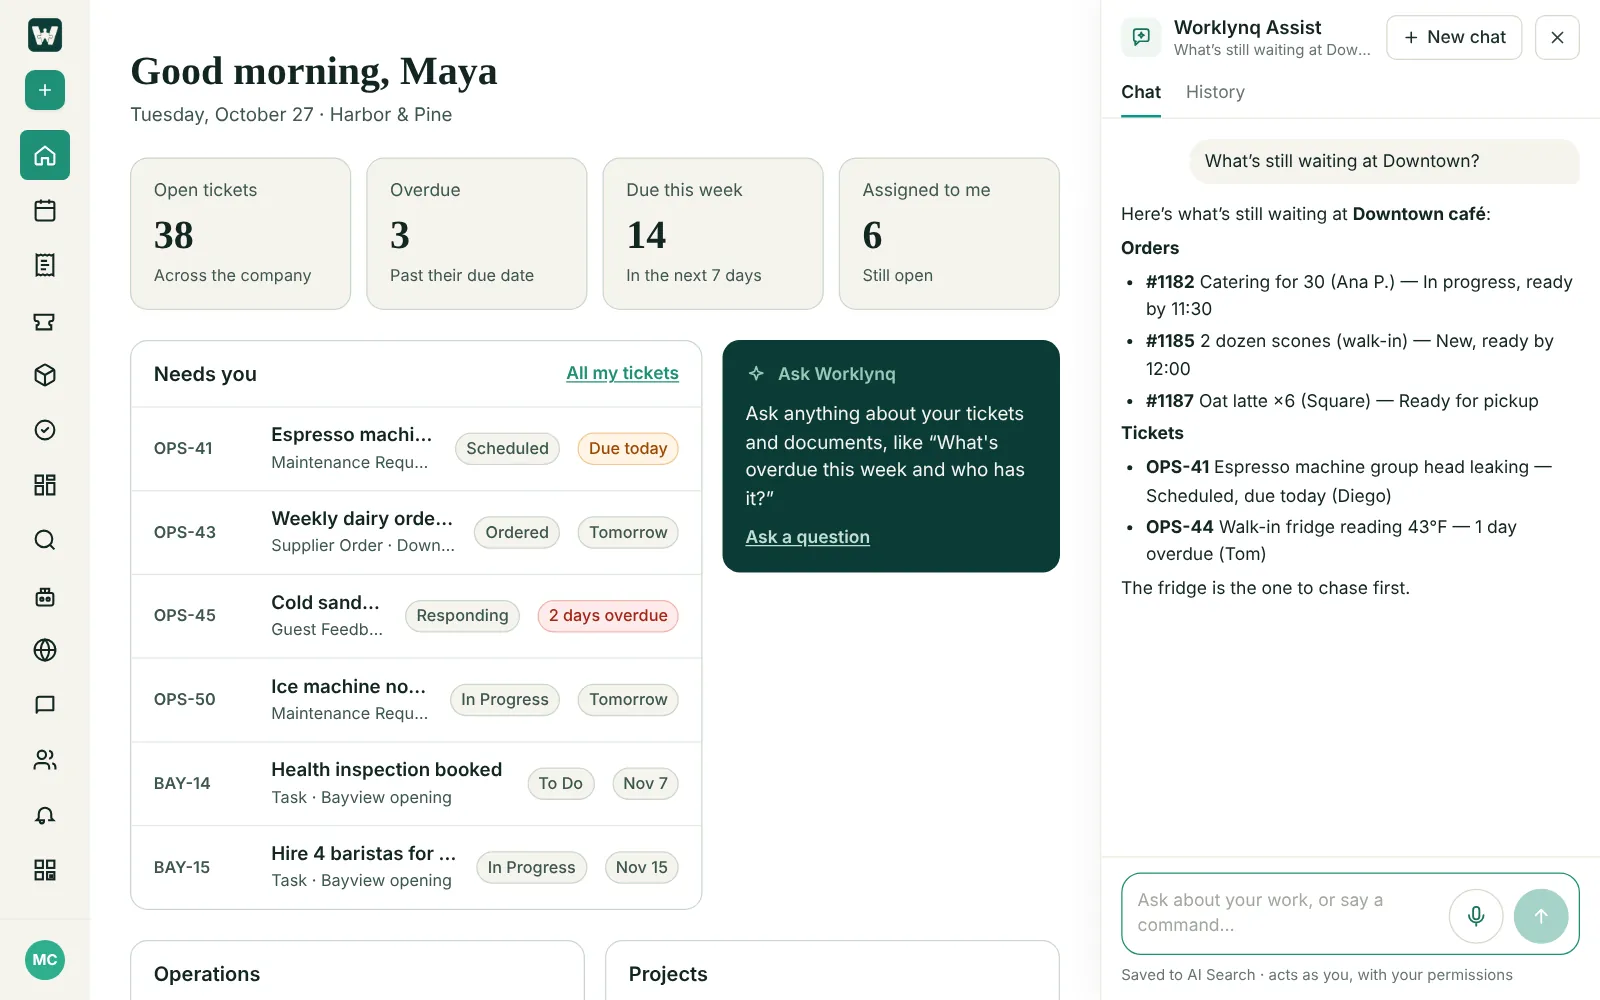
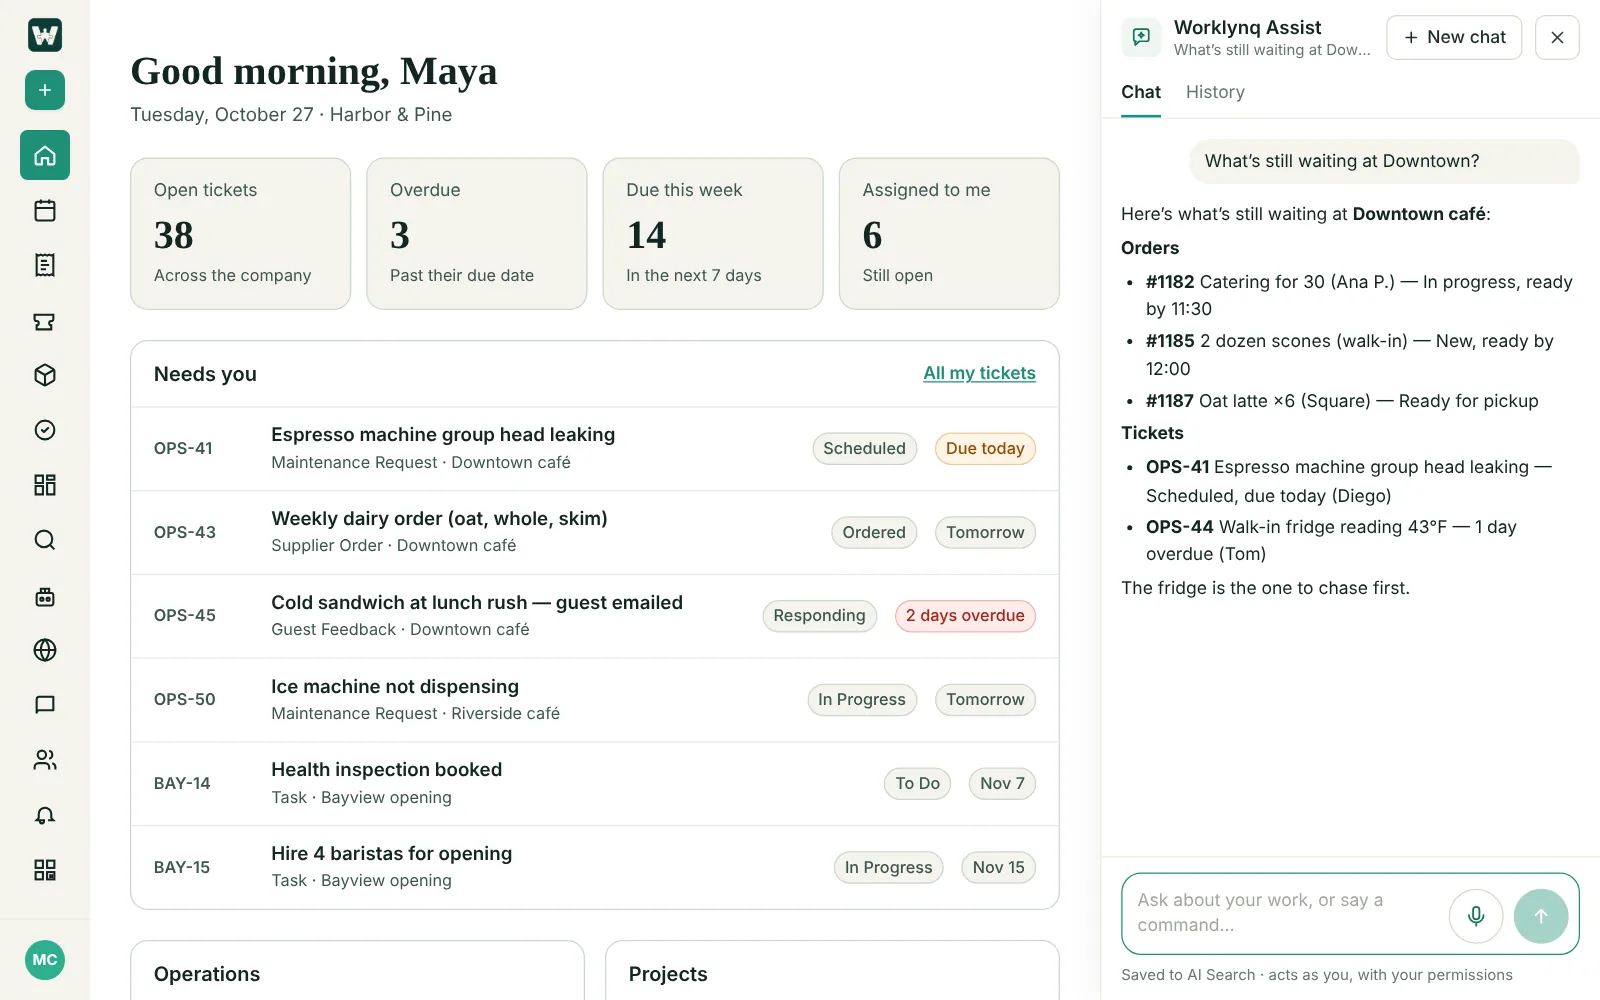
AI credits: publish 1,000 credits per person; Home without Ask Worklynq (#111)
Re-takes AI Usage, AI Monitoring, Assist and Home screenshots to match.

Claude-Session: https://claude.ai/code/session_01LrkZDcZU3B667ZymrL3Co3

diff --git a/docs/faq/index.html b/docs/faq/index.html
@@ -58,7 +58,7 @@
         <details class="faq" id="tv"><summary>Can I put Worklynq on a TV in my store?</summary><div class="faq-a"><p>Yes. Open Order Tracking or Operations, click <strong>Show on TV</strong>, and connect the TV with a code — most TV browsers, a Fire TV stick, or a tablet work. The TV can show open orders, today’s tasks, and who’s on duty. See <a href="/docs/tv-screens/">TV screens</a>.</p></div></details>
         <details class="faq" id="own-software"><summary>Can Worklynq show data from our own software?</summary><div class="faq-a"><p>Yes. Your developers add a small, read-only data feed to your app using our <a href="/docs/integrations/custom-apps/feed-spec/">one-page spec</a>, and your System Admin connects it as a <a href="/docs/integrations/custom-apps/">custom app</a>. Its data then works in dashboards and reports like Square or QuickBooks.</p></div></details>
         <details class="faq" id="own-ai-account"><summary>Do I need my own Claude or Cursor account?</summary><div class="faq-a"><p>Only if you want AI coding agents to work on tickets. You connect your own API key, and that provider bills your account for what the agents use. You can set limits on how long and, for Claude, how much each session may run.</p></div></details>
-        <details class="faq" id="ai-credits"><summary>What are Worklynq AI credits?</summary><div class="faq-a"><p>Worklynq’s built-in AI — Assist, AI Search, agents, and AI in dashboards — runs on AI credits. Each person has a monthly allowance; Assist warns at 80%, and AI features pause at 100% until the next month or until more are added. Using your own Claude or OpenAI key costs no credits. See your usage under <strong>AI Usage</strong> in your profile menu, and read <a href="/docs/ai-credits/">Worklynq AI credits</a>.</p></div></details>
+        <details class="faq" id="ai-credits"><summary>What are Worklynq AI credits?</summary><div class="faq-a"><p>Worklynq’s built-in AI — Assist, AI Search, agents, and AI in dashboards — runs on AI credits. Every person gets 1,000 credits a month; Assist warns at 80%, and AI features pause at 100% until the next month or until more are added. Using your own Claude or OpenAI key costs no credits. See your usage under <strong>AI Usage</strong> in your profile menu, and read <a href="/docs/ai-credits/">Worklynq AI credits</a>.</p></div></details>
         <details class="faq" id="which-ai"><summary>Which AI does Worklynq use?</summary><div class="faq-a"><p>Worklynq’s built-in AI uses models hosted on Amazon Bedrock. Your company can also set up its own Claude or OpenAI key and choose those models for things like building and explaining dashboards and summarizing reports. AI coding agents use Claude (Anthropic) or Cursor (Anysphere) through your own account with them.</p></div></details>
         <details class="faq" id="ai-training"><summary>Is my data used to train AI models?</summary><div class="faq-a"><p>No. We don’t use your content to train AI models, and we don’t use it for advertising. See <a href="/docs/security/#ai">Security &amp; data</a>.</p></div></details>
         <details class="faq" id="ai-mistakes"><summary>Can I trust what the AI says or does?</summary><div class="faq-a"><p>AI can be wrong, so Worklynq is built for people to stay in charge: answers link to their sources, AI only sees what the person asking is allowed to see (and never other people’s personal pages), and AI agents propose changes as pull requests your team reviews before anything is merged.</p></div></details>

diff --git a/docs/whats-new/index.html b/docs/whats-new/index.html
@@ -38,7 +38,7 @@
       <h1>What’s new</h1>
       <p class="intro">New features and improvements in Worklynq, newest first.</p>
       <section class="release" id="2026-10-27"><h2>October 27, 2026</h2>
-        <article class="change" id="ai-credits"><span class="change-tag">New</span><h3>Worklynq AI credits</h3><p>Everything about AI use is now in Worklynq AI credits. Each person has a monthly allowance, and Assist, AI Search, agents, and AI in dashboards all use it. See yours in <strong>AI Usage</strong> in your profile menu — this month’s credits, by feature and by day. System Admins see the whole company in <strong>System Admin → AI Monitoring</strong>. Assist warns you at 80%, and AI features pause at 100% until the next month or until more credits are added. Using your own Claude or OpenAI key costs no credits.</p><p class="change-link"><a href="/docs/ai-credits/">About AI credits →</a></p></article>
+        <article class="change" id="ai-credits"><span class="change-tag">New</span><h3>Worklynq AI credits</h3><p>Everything about AI use is now in Worklynq AI credits. Every person gets 1,000 credits a month, and Assist, AI Search, agents, and AI in dashboards all use it. See yours in <strong>AI Usage</strong> in your profile menu — this month’s credits, by feature and by day. System Admins see the whole company in <strong>System Admin → AI Monitoring</strong>. Assist warns you at 80%, and AI features pause at 100% until the next month or until more credits are added. Using your own Claude or OpenAI key costs no credits.</p><p class="change-link"><a href="/docs/ai-credits/">About AI credits →</a></p></article>
         <article class="change" id="tickets-list"><span class="change-tag">Improved</span><h3>A tickets list that fills the screen, with Ask AI</h3><p>The tickets list now uses the whole screen, with readable columns and the Title taking the rest. A compact <strong>Ask AI</strong> box in the toolbar replaces the old query bar: type “overdue repairs at Downtown”, press Enter, and save it as a filter if you like. Filters now have two simple tabs, <em>Saved</em> and <em>Fields</em>.</p><p class="change-link"><a href="/docs/tickets/#ask-ai">Search with Ask AI →</a></p></article>
         <article class="change" id="bulk-edit"><span class="change-tag">New</span><h3>Edit similar tickets together</h3><p>Super admins can turn on <strong>Bulk edit</strong>, pick tickets from the same work area and of the same type, and change their status, priority, assignee, due date, sprint, or release in one go. Every field starts at <em>Keep as is</em>.</p><p class="change-link"><a href="/docs/tickets/#bulk-edit">How bulk edit works →</a></p></article>
         <article class="change" id="branching-workflows"><span class="change-tag">New</span><h3>Custom (branching) workflows</h3><p>Next to Linear and Free flow, a ticket type can now use a <strong>Custom</strong> workflow: for each stage, choose which stages a ticket can move to next, so work can split into branches and loop back — <em>Tasting → Changes requested → Tasting</em>. A diagram shows the result, Worklynq checks every stage can be reached, and the board and status menu only allow the moves you chose.</p><p class="change-link"><a href="/docs/tickets/#custom-workflow">Build a branching workflow →</a></p></article>

diff --git a/docs/ai-credits/index.html b/docs/ai-credits/index.html
@@ -36,7 +36,7 @@
     <article class="doc">
       <p class="eyebrow">Get started</p>
       <h1>Worklynq AI credits</h1>
-      <p class="intro">Worklynq’s built-in AI — Assist, AI Search, AI agents, and AI in dashboards — runs on Worklynq AI credits. Each person has a monthly allowance, you can see exactly where it goes, and Worklynq tells you before it runs out.</p>
+      <p class="intro">Worklynq’s built-in AI — Assist, AI Search, AI agents, and AI in dashboards — runs on Worklynq AI credits. Every person gets <strong>1,000 credits a month</strong>, you can see exactly where they go, and Worklynq tells you before they run out.</p>
       <figure class="shot"><img src="/assets/screens/ai-usage.webp" alt="AI Usage: this month's credits against the limit, by feature and by day" loading="lazy" width="1600" height="1125"><figcaption>Profile → AI Usage: your credits this month</figcaption></figure>
       <section class="sec" id="what-uses"><h2>What uses credits</h2>
         <div class="table-wrap"><table>
@@ -53,8 +53,10 @@
       </section>
       <section class="sec" id="limits"><h2>Monthly allowance</h2>
         <ul>
-          <li>Each person has their own monthly allowance. Your company can also have a company-wide limit.</li>
-          <li>Allowances start again at the beginning of each calendar month.</li>
+          <li><strong>1,000 credits per person per month</strong>, included for everyone on your team. Each person’s allowance is their own — one busy person can’t use up someone else’s.</li>
+          <li>As a rough guide, a typical Assist question uses about 5 credits, so 1,000 credits is around 200 questions a month.</li>
+          <li>Worklynq can set a different allowance for one person, or a limit for the whole company, if you ask.</li>
+          <li>Allowances start again at the beginning of each calendar month. Unused credits don’t carry over.</li>
           <li>Need more? Your System Admin can ask Worklynq at <a href="mailto:info@cohesync.com">info@cohesync.com</a> to raise a person’s or the company’s limit, or add extra credits.</li>
         </ul>
       </section>

diff --git a/docs/home/index.html b/docs/home/index.html
@@ -44,7 +44,7 @@
           <li><strong>Four counts.</strong> Open tickets, overdue, and due this week across your company, and how many open tickets are assigned to you. Click <em>Assigned to me</em> to open My Tickets.</li>
           <li><strong>Needs you.</strong> Your open tickets, soonest due first, with each ticket’s stage and when it’s due — <em>Due today</em>, <em>Tomorrow</em>, a weekday, or <em>2 days overdue</em>. Click one to open it.</li>
           <li><strong>A tile for each kind of work.</strong> <em>Operations</em>, <em>Projects</em>, <em>Products</em>, and <em>Approval workflows</em> each get their own tile, listing the work areas with open tickets — busiest first, with their open and overdue counts. A tile only appears when that kind has open work, so you see just the mix your company uses. Each tile shows up to six; when there are more, it says <em>Busiest 6 of N</em>. Click one to open it.</li>
-          <li><strong>Ask Worklynq.</strong> When AI Search is on, ask a question about your tickets, documents, and projects.</li>
+          <li><strong>Questions?</strong> Ask <a href="/docs/assist/">Assist</a> — the button at the bottom right of every page — about your tickets, orders, and documents.</li>
           <li><strong>Finish setting up.</strong> If you’re the System Admin and chose <em>Finish later</em> during setup, Home has a link back to it.</li>
         </ul>
         <p class="tip">A ticket counts as open until it reaches one of its type’s end stages. An RFI that’s <em>Answered</em> or a Submittal that’s <em>Approved</em> is done, even though those aren’t called “Done”.</p>

diff --git a/docs/plans-and-billing/index.html b/docs/plans-and-billing/index.html
@@ -59,7 +59,7 @@
       </section>
       <section class="step" id="ai-costs">
         <h2>AI</h2>
-        <p>Worklynq’s built-in AI — Assist, AI Search, agents, and AI in dashboards — runs on <a href="/docs/ai-credits/">Worklynq AI credits</a>, with a monthly allowance for each person. If you need more, your System Admin can ask us at <a href="mailto:info@cohesync.com">info@cohesync.com</a>.</p>
+        <p>Worklynq’s built-in AI — Assist, AI Search, agents, and AI in dashboards — runs on <a href="/docs/ai-credits/">Worklynq AI credits</a>. Every person gets 1,000 credits a month. If you need more, your System Admin can ask us at <a href="mailto:info@cohesync.com">info@cohesync.com</a>.</p>
         <p>Claude and Cursor coding agents, and any feature you point at your own Claude or OpenAI key, run on your own account with those providers. They bill you for that usage directly, and it uses no Worklynq credits.</p>
       </section>
       <p class="doc-foot">Last updated: October 26, 2026. Questions? <a href="mailto:info@cohesync.com">info@cohesync.com</a></p>
